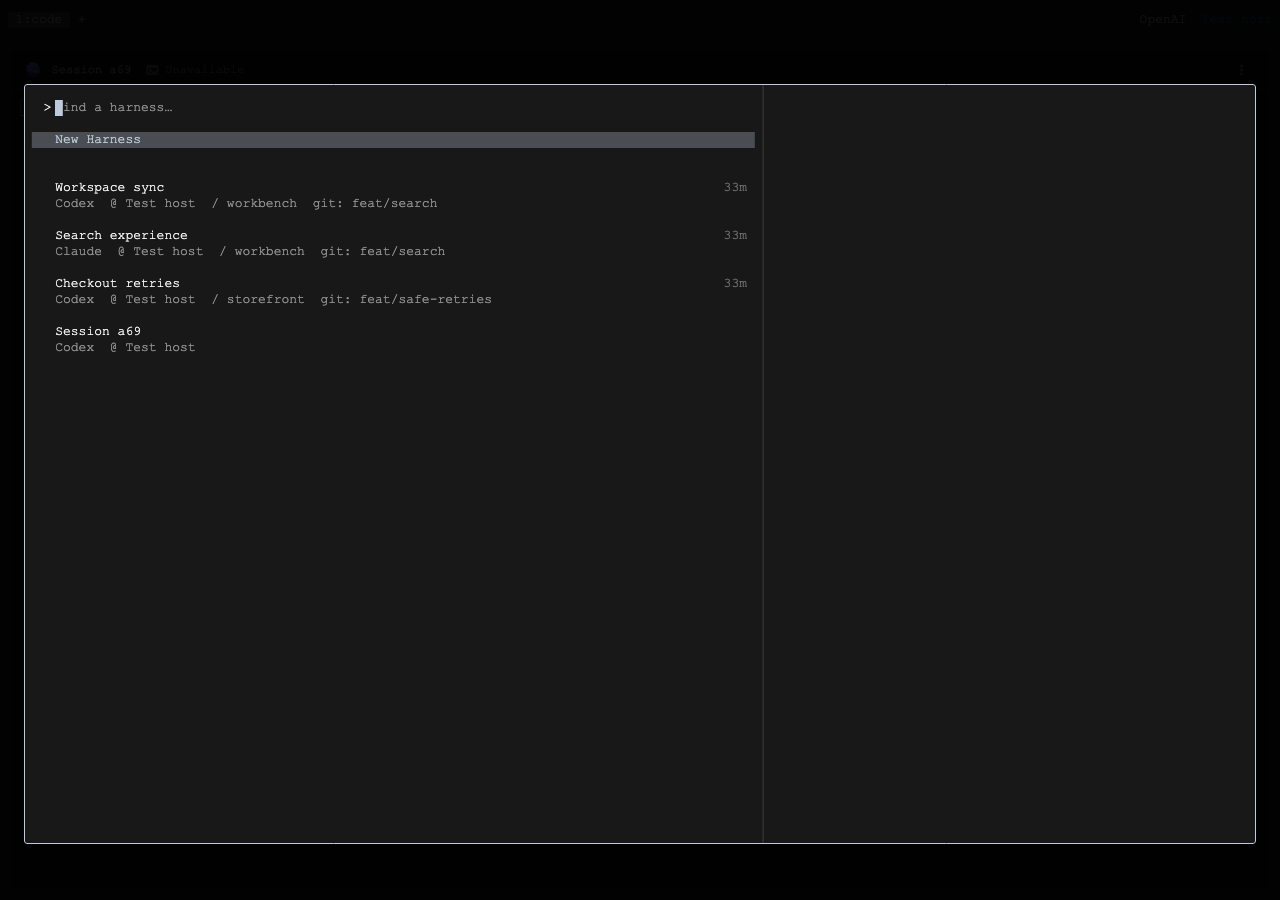
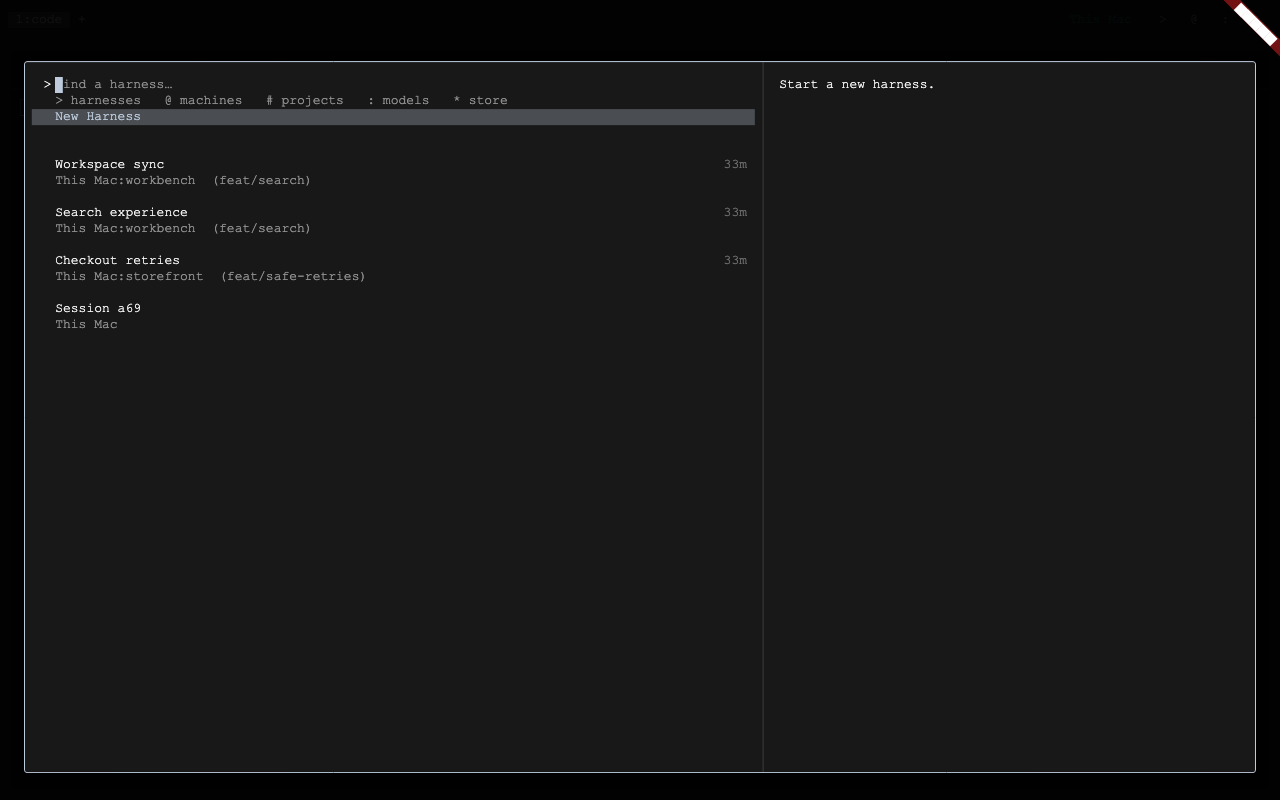
Show resource type hints in an empty Cmd-P search (#326)

diff --git a/desktop/test/resource_picker_test.dart b/desktop/test/resource_picker_test.dart
@@ -110,9 +110,12 @@ void main() {
         final mac = defaultTargetPlatform == TargetPlatform.macOS;
         await key(tester, LogicalKeyboardKey.keyP, cmd: mac, ctrl: !mac);
         expect(field, findsOneWidget);
+        final hints = find.byKey(const ValueKey('swarm-search-type-hints'));
+        expect(hints, findsOneWidget);
         expect(search(tester).isCommandMode, isFalse);
         await tester.enterText(field, ':qwen');
         await tester.pump();
+        expect(hints, findsNothing);
         expect(search(tester).isModelMode, isTrue);
         await key(tester, LogicalKeyboardKey.escape);
         expect(field, findsNothing);
@@ -124,6 +127,7 @@ void main() {
           shift: true,
         );
         expect(search(tester).isCommandMode, isTrue);
+        expect(hints, findsNothing);
         await key(tester, LogicalKeyboardKey.escape);
         await key(tester, LogicalKeyboardKey.keyO, cmd: mac, ctrl: !mac);
         expect(field, findsNothing);
@@ -138,6 +142,75 @@ void main() {
       TargetPlatform.linux,
     }),
   );
+
+  testWidgets('type hints keep the input and results fixed while typing', (
+    tester,
+  ) async {
+    final app = await fixture();
+    final originalFont = terminalFontStore.value;
+    final originalPalette = grid.AppTheme.palette.value;
+    final originalTheme = terminalThemeStore.value;
+    addTearDown(() {
+      terminalFontStore.value = originalFont;
+      grid.AppTheme.palette.value = originalPalette;
+      terminalThemeStore.value = originalTheme;
+    });
+    await mount(tester, app);
+    await chord(tester, LogicalKeyboardKey.keyP);
+    final hints = find.byKey(const ValueKey('swarm-search-type-hints'));
+    final input = tester.widget<TextField>(field);
+    final inputPosition = tester.getTopLeft(field);
+    final createPosition = tester.getTopLeft(find.text('New Harness'));
+    const fullHint =
+        '> harnesses   @ machines   # projects   : models   * store';
+    expect(tester.widget<Text>(hints).data, fullHint);
+    expect(tester.getTopLeft(hints).dx, closeTo(inputPosition.dx, .01));
+    expect(
+      tester.getTopLeft(hints).dy - inputPosition.dy,
+      closeTo(terminalCellSizeOf(tester.element(field)).height, 1),
+      reason: 'The hint sits one terminal row below the input.',
+    );
+    await capture(tester, 'empty-type-hints');
+
+    await tester.enterText(field, 'search');
+    await tester.pump();
+    expect(hints, findsNothing);
+    expect(tester.getTopLeft(field), inputPosition);
+    expect(tester.getTopLeft(find.text('New Harness')), createPosition);
+    expect(tester.widget<TextField>(field).controller, same(input.controller));
+    expect(input.focusNode!.hasFocus, isTrue);
+    for (final prefix in ['@', '#', ':', '*']) {
+      await tester.enterText(field, prefix);
+      await tester.pump();
+      expect(hints, findsNothing);
+      await key(tester, LogicalKeyboardKey.backspace);
+      expect(hints, findsOneWidget);
+    }
+
+    grid.AppTheme.palette.value = HarnessPalette.slate;
+    terminalThemeStore.value = TerminalThemeChoice.tango;
+    terminalFontStore.value = const TerminalStyle(
+      fontSize: 18,
+      fontFamily: 'Menlo',
+    );
+    tester.view.physicalSize = const Size(480, 600);
+    await tester.pumpAndSettle();
+    final compact = tester.widget<Text>(hints);
+    expect(compact.data, '>   @   #   :   *');
+    expect(compact.semanticsLabel, fullHint);
+    expect(compact.style!.fontSize, 18);
+    expect(
+      compact.style!.color,
+      terminalThemeFor(
+        grid.AppTheme.palette.value,
+        terminalThemeStore.value,
+      ).foreground.withValues(alpha: .54),
+    );
+    expect(tester.takeException(), isNull);
+    await capture(tester, 'narrow-type-hints');
+    await tester.pumpWidget(const SizedBox());
+    app.dispose();
+  });
 
   for (final withKeymap in [false, true]) {
     testWidgets(

diff --git a/desktop/lib/widgets/swarm_search_input.dart b/desktop/lib/widgets/swarm_search_input.dart
@@ -7,6 +7,9 @@ import '../terminal/terminal_theme.dart';
 import '../terminal/terminal_theme_store.dart';
 import 'box_chrome.dart';
 
+const _resourceTypeHints =
+    '> harnesses   @ machines   # projects   : models   * store';
+
 /// The shared input for the start page, Open Agent and split searches.
 /// Flutter owns the caret and result navigation; native chrome only opens it.
 class SwarmSearchInput extends StatelessWidget {
@@ -33,6 +36,7 @@ class SwarmSearchInput extends StatelessWidget {
     this.prompt,
     this.terminal = false,
     this.bios = false,
+    this.showResourceHints = false,
     this.onEmptyBackspace,
   });
 
@@ -65,6 +69,7 @@ class SwarmSearchInput extends StatelessWidget {
   /// The active resource prefix can be rendered separately as [prompt].
   final bool terminal;
   final bool bios;
+  final bool showResourceHints;
   final VoidCallback? onEmptyBackspace;
 
   @override
@@ -239,28 +244,61 @@ class SwarmSearchInput extends StatelessWidget {
     );
     if (!bios) return field;
     return Padding(
-      padding: EdgeInsets.symmetric(
-        horizontal: cell.width * 2,
-        vertical: cell.height,
+      padding: EdgeInsets.fromLTRB(
+        cell.width * 2,
+        cell.height,
+        cell.width * 2,
+        showResourceHints ? 0 : cell.height,
       ),
-      child: SizedBox(
-        height: cell.height,
-        child: Row(
-          crossAxisAlignment: CrossAxisAlignment.baseline,
-          textBaseline: TextBaseline.alphabetic,
-          children: [
-            SizedBox(
-              width: cell.width * 2,
-              child: Text(
-                prompt ?? '>',
-                key: const ValueKey('swarm-search-prompt'),
-                textAlign: TextAlign.center,
-                style: style,
-              ),
+      child: Column(
+        mainAxisSize: MainAxisSize.min,
+        crossAxisAlignment: CrossAxisAlignment.stretch,
+        children: [
+          SizedBox(
+            height: cell.height,
+            child: Row(
+              crossAxisAlignment: CrossAxisAlignment.baseline,
+              textBaseline: TextBaseline.alphabetic,
+              children: [
+                SizedBox(
+                  width: cell.width * 2,
+                  child: Text(
+                    prompt ?? '>',
+                    key: const ValueKey('swarm-search-prompt'),
+                    textAlign: TextAlign.center,
+                    style: style,
+                  ),
+                ),
+                Expanded(child: field),
+              ],
             ),
-            Expanded(child: field),
-          ],
-        ),
+          ),
+          // Use the existing blank row so typing never moves the results.
+          if (showResourceHints)
+            SizedBox(
+              height: cell.height,
+              child: controller.text.isEmpty && search?.query.isEmpty == true
+                  ? Padding(
+                      padding: EdgeInsets.only(left: cell.width * 2),
+                      child: LayoutBuilder(
+                        builder: (context, constraints) => Text(
+                          constraints.maxWidth >=
+                                  cell.width * _resourceTypeHints.length
+                              ? _resourceTypeHints
+                              : '>   @   #   :   *',
+                          key: const ValueKey('swarm-search-type-hints'),
+                          semanticsLabel: _resourceTypeHints,
+                          maxLines: 1,
+                          overflow: TextOverflow.clip,
+                          style: style.copyWith(
+                            color: theme.foreground.withValues(alpha: .54),
+                          ),
+                        ),
+                      ),
+                    )
+                  : null,
+            ),
+        ],
       ),
     );
   }

diff --git a/desktop/lib/screens/swarm_screen.dart b/desktop/lib/screens/swarm_screen.dart
@@ -3158,6 +3158,7 @@ class _SwarmScreenState extends State<SwarmScreen>
                             onOpen: _focusSearch,
                             terminal: true,
                             bios: true,
+                            showResourceHints: search.allowsCommands,
                             prompt: search.prompt,
                             onEmptyBackspace: search.scopePrefix.isEmpty
                                 ? null

diff --git a/desktop/design/terminal-dialogs.md b/desktop/design/terminal-dialogs.md
@@ -106,6 +106,11 @@ Search is one unfilled, borderless text line with a block caret one measured
 cell wide. Its prompt occupies the shared gutter. Previews use the same text
 metrics and blank-row spacing; warnings are readable text in semantic colors.
 
+An empty Cmd-P search uses the blank row below its input for a muted type hint:
+`> harnesses   @ machines   # projects   : models   * store`. Hide it while a
+query or type filter is active, keeping that row's height so results never jump.
+In narrow layouts, show only the symbols and retain the full accessible label.
+
 Open dialogs must follow live terminal font and theme changes while preserving
 the input controller, query, selection, focus, and scroll state. Wire the font,
 palette, and terminal-theme dependencies as the reference dialogs do. Settings
